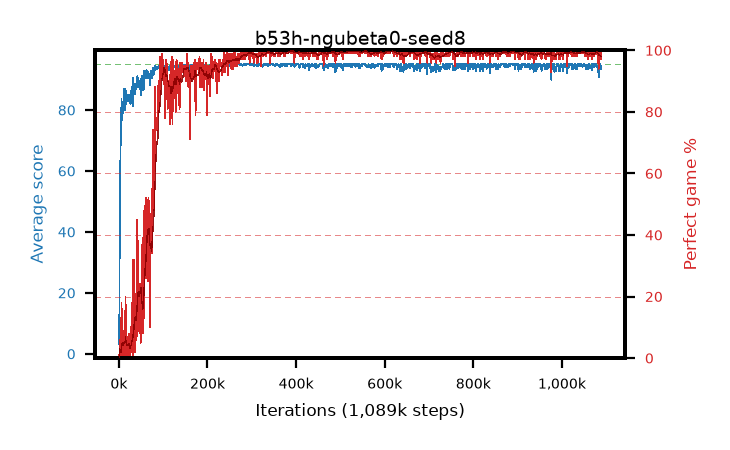
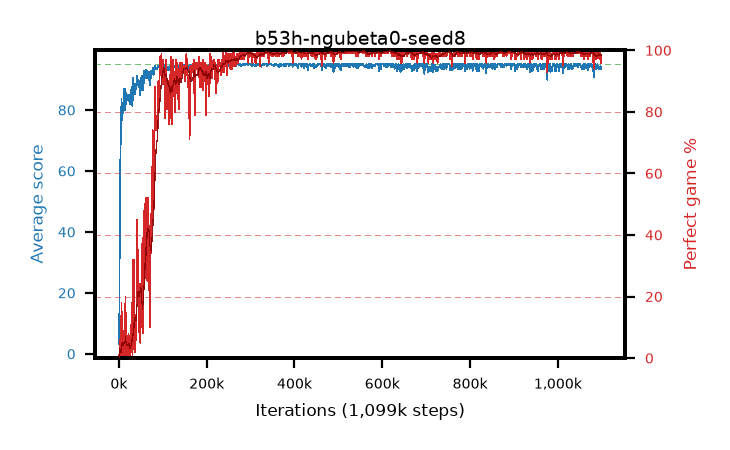
live pictures of 4 arm(s)

diff --git a/results/b53e-ngubeta0-seed5/b53e-ngubeta0-seed5.md b/results/b53e-ngubeta0-seed5/b53e-ngubeta0-seed5.md
@@ -1,6 +1,6 @@
 # b53e-ngubeta0-seed5
 
-step **1,079,000** · 1079 evals · trailing **94.41** · peak **94.95** @437,000 · sef **90.6** · best30 **99.8** @530,000
+step **1,089,000** · 1089 evals · trailing **94.38** · peak **94.95** @437,000 · sef **90.7** · best30 **99.8** @530,000
 
 ## Config
 
@@ -80,15 +80,15 @@ step **1,079,000** · 1079 evals · trailing **94.41** · peak **94.95** @437,00
 | 2000 | 29.39 | 17.35 | 3.0 | 54.0 | 24.459 | 0.0 | 0.4 |
 | 3000 | 50.81 | 28.5 | 16.0 | 85.0 | 45.457 | 0.0 | 0.4 |
 | ... | ... | ... | ... | ... | ... | ... | ... |
-| 1068000 | 95.0 | 94.34 | 95.0 | 95.0 | 193.786 | 100.0 | 0.4 |
-| 1069000 | 94.09 | 94.33 | 4.0 | 95.0 | 191.826 | 99.0 | 0.4 |
-| 1070000 | 95.0 | 94.36 | 95.0 | 95.0 | 193.785 | 100.0 | 0.4 |
-| 1071000 | 94.21 | 94.33 | 16.0 | 95.0 | 191.96 | 99.0 | 0.4 |
-| 1072000 | 95.0 | 94.36 | 95.0 | 95.0 | 193.781 | 100.0 | 0.4 |
-| 1073000 | 92.77 | 94.34 | 19.0 | 95.0 | 188.448 | 97.0 | 0.4 |
-| 1074000 | 94.21 | 94.36 | 16.0 | 95.0 | 191.949 | 99.0 | 0.4 |
-| 1075000 | 92.68 | 94.31 | 14.0 | 95.0 | 188.349 | 97.0 | 0.4 |
-| 1076000 | 94.95 | 94.34 | 90.0 | 95.0 | 192.689 | 99.0 | 0.4 |
-| 1077000 | 95.0 | 94.36 | 95.0 | 95.0 | 193.785 | 100.0 | 0.4 |
 | 1078000 | 95.0 | 94.41 | 95.0 | 95.0 | 193.789 | 100.0 | 0.4 |
 | 1079000 | 95.0 | 94.41 | 95.0 | 95.0 | 193.783 | 100.0 | 0.4 |
+| 1080000 | 95.0 | 94.42 | 95.0 | 95.0 | 193.786 | 100.0 | 0.4 |
+| 1081000 | 94.17 | 94.44 | 12.0 | 95.0 | 191.919 | 99.0 | 0.4 |
+| 1082000 | 94.18 | 94.41 | 13.0 | 95.0 | 191.916 | 99.0 | 0.4 |
+| 1083000 | 95.0 | 94.43 | 95.0 | 95.0 | 193.785 | 100.0 | 0.4 |
+| 1084000 | 94.21 | 94.41 | 19.0 | 95.0 | 190.96 | 98.0 | 0.4 |
+| 1085000 | 94.17 | 94.38 | 12.0 | 95.0 | 191.917 | 99.0 | 0.4 |
+| 1086000 | 95.0 | 94.38 | 95.0 | 95.0 | 193.787 | 100.0 | 0.4 |
+| 1087000 | 94.88 | 94.4 | 83.0 | 95.0 | 192.66 | 99.0 | 0.4 |
+| 1088000 | 94.24 | 94.4 | 19.0 | 95.0 | 191.983 | 99.0 | 0.4 |
+| 1089000 | 93.31 | 94.38 | 18.0 | 95.0 | 189.02 | 97.0 | 0.4 |

diff --git a/results/b53h-ngubeta0-seed8/b53h-ngubeta0-seed8.md b/results/b53h-ngubeta0-seed8/b53h-ngubeta0-seed8.md
@@ -1,6 +1,6 @@
 # b53h-ngubeta0-seed8
 
-step **1,089,000** · 1089 evals · trailing **94.26** · peak **94.92** @356,000 · sef **91.4** · best30 **99.7** @539,000
+step **1,099,000** · 1099 evals · trailing **94.19** · peak **94.92** @356,000 · sef **91.4** · best30 **99.7** @539,000
 
 ## Config
 
@@ -80,15 +80,15 @@ step **1,089,000** · 1089 evals · trailing **94.26** · peak **94.92** @356,00
 | 2000 | 50.19 | 26.7 | 2.0 | 95.0 | 51.185 | 6.0 | 0.4 |
 | 3000 | 57.71 | 37.03 | 27.0 | 95.0 | 54.481 | 2.0 | 0.4 |
 | ... | ... | ... | ... | ... | ... | ... | ... |
-| 1078000 | 94.19 | 94.45 | 14.0 | 95.0 | 191.927 | 99.0 | 0.4 |
-| 1079000 | 94.34 | 94.43 | 29.0 | 95.0 | 192.076 | 99.0 | 0.4 |
-| 1080000 | 94.28 | 94.42 | 23.0 | 95.0 | 192.023 | 99.0 | 0.4 |
-| 1081000 | 92.44 | 94.34 | 20.0 | 95.0 | 187.07 | 96.0 | 0.4 |
-| 1082000 | 94.29 | 94.34 | 24.0 | 95.0 | 192.028 | 99.0 | 0.4 |
-| 1083000 | 90.74 | 94.22 | 18.0 | 95.0 | 183.292 | 94.0 | 0.4 |
-| 1084000 | 95.0 | 94.27 | 95.0 | 95.0 | 193.79 | 100.0 | 0.4 |
-| 1085000 | 93.95 | 94.26 | 27.0 | 95.0 | 189.612 | 97.0 | 0.4 |
-| 1086000 | 95.0 | 94.31 | 95.0 | 95.0 | 193.78 | 100.0 | 0.4 |
-| 1087000 | 94.34 | 94.29 | 30.0 | 95.0 | 191.047 | 98.0 | 0.4 |
 | 1088000 | 93.37 | 94.23 | 21.0 | 95.0 | 189.035 | 97.0 | 0.4 |
 | 1089000 | 94.37 | 94.26 | 32.0 | 95.0 | 192.106 | 99.0 | 0.4 |
+| 1090000 | 95.0 | 94.26 | 95.0 | 95.0 | 193.783 | 100.0 | 0.4 |
+| 1091000 | 94.26 | 94.24 | 21.0 | 95.0 | 192.001 | 99.0 | 0.4 |
+| 1092000 | 94.26 | 94.21 | 21.0 | 95.0 | 192.003 | 99.0 | 0.4 |
+| 1093000 | 94.13 | 94.21 | 8.0 | 95.0 | 191.882 | 99.0 | 0.4 |
+| 1094000 | 93.57 | 94.21 | 22.0 | 95.0 | 190.278 | 98.0 | 0.4 |
+| 1095000 | 93.44 | 94.17 | 16.0 | 95.0 | 189.15 | 97.0 | 0.4 |
+| 1096000 | 94.23 | 94.19 | 18.0 | 95.0 | 191.97 | 99.0 | 0.4 |
+| 1097000 | 94.41 | 94.17 | 36.0 | 95.0 | 192.158 | 99.0 | 0.4 |
+| 1098000 | 93.72 | 94.2 | 25.0 | 95.0 | 189.38 | 97.0 | 0.4 |
+| 1099000 | 93.41 | 94.19 | 17.0 | 95.0 | 188.028 | 96.0 | 0.4 |
